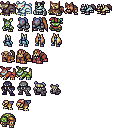
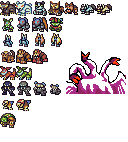
tried to get goosedora working, not quite yet done.

diff --git a/js/util.js b/js/util.js
@@ -277,7 +277,7 @@ function levelUp() {
 
 function createCardSelectionBox() {
     newSkill = shuffleArray(h.globalSkills)
-        cardChoiceOne = spawnCard(newSkill[0]);
+    cardChoiceOne = spawnCard(newSkill[0]);
     cardChoiceTwo = spawnCard(newSkill[1]);
     cardChoiceMenu = createMenu(-160, -75, 320, 250);
 
@@ -377,4 +377,13 @@ function GoosemanCastleBoatman(){
 
 function fullHeal(){
 	h.player.stat.set("current_health", h.player.stat.get("max_health"));
+}
+
+function theEndDrop(){
+    var endText = h.text("The End", fontStyle.font, color.text);
+    endText.text.fontize = 26;
+    endText.pivotX = endText.pivotY = 0.5;
+    endText.x = h.canvas.width/2;
+    endText.y = -50;
+    h.slide(endText, h.canvas.height/2,  h.canvas.width/2, 180);
 }

diff --git a/js/enemies.js b/js/enemies.js
@@ -143,13 +143,13 @@ function GoosedoraBoss() {
     var combatMenu = spawnCombatMenu();
     var boss = new createEnemy({
         "name": "Goosedora",
-        "sprite": "res/images/Player0.png",
+        "sprite": "res/images/Misc0.png",
         "health": 1200,
         "damage": 180,
-        "index": 109,
+        "index": 14,
         "type": "Goosedora", 
-        "width" : 16,
-        "height" : 16 
+        "width" : 32,
+        "height" : 32 
     });
     h.combatTurn = initCombatTurn(combatMenu, boss);
     combatMenu.skillsMenu.runnable = false;

diff --git a/js/index.js b/js/index.js
@@ -8,6 +8,7 @@ let thingsToLoad = [
     "res/maps/1_lvl_map.png",
     "res/images/Elemental0.png",
     "res/images/plant1.png",
+    "res/images/Misc1.png",
     "res/maps/SkyCliffs.png",
     "res/maps/map_collisions_1.bmp",
     "res/maps/overworld_collision.bmp",
